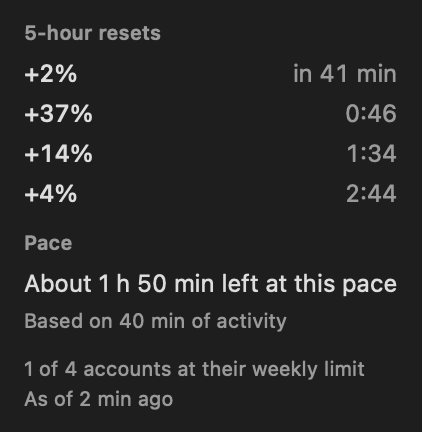
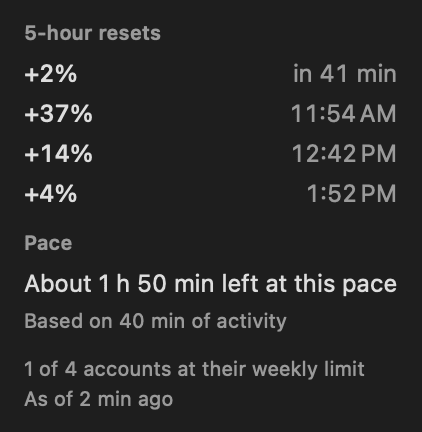
chore: polish readme shots after the time format fix (#27)
* fix: draw the recorder's menu bar clock from the frame's own time

The clock was fixed at 9:41 while the hover card's resets came from the
real time, so a frame could show 9:41 above a reset at 1:48 AM. The
clock now formats the same now, and TZ picks the hour of a recording.

* update the readme shots after the duration fix

Re-renders the pace card and GIF on #24's formatting, crops the menu
bar settings from the section header through the whole style picker,
and shows those two shots wider so their labels stay readable.

Changed region(s): [[0.6777, 0.331, 0.955, 0.3912], [0.6777, 0.2407, 0.955, 0.3009], [0.7393, 0.4213, 0.955, 0.4815]]

diff --git a/Sources/Ebb/Recorder.swift b/Sources/Ebb/Recorder.swift
@@ -269,6 +269,13 @@ private final class Desk {
     private var digit = CGRect.zero
     private var digits: [(sharp: CGImage, blurred: CGImage)] = []
 
+    /// The menu bar clock's format: "Tue Oct 27  9:12 AM".
+    private static func clockText(_ date: Date) -> String {
+        let day = DateFormatter()
+        day.dateFormat = DateFormatter.dateFormat(fromTemplate: "EEEMMMd", options: 0, locale: .current)?.replacingOccurrences(of: ",", with: "")
+        return day.string(from: date) + "  " + date.formatted(date: .omitted, time: .shortened)
+    }
+
     init(model: AppModel, scheme: ColorScheme) {
         isDark = scheme == .dark
         let claude = ClaudeProvider().proxyName
@@ -295,7 +302,8 @@ private final class Desk {
         }
         wallpaper = Self.wallpaper(isDark: isDark)
         blurredWallpaper = Self.blur(wallpaper, radius: 90, saturation: 1.4)
-        clock = (NSAttributedString(string: "Mon 26 Oct  9:41", attributes: [.font: NSFont.systemFont(ofSize: 13)]), .zero)
+        // From the same `now` as the resets in the hover card, so the frame agrees with itself; set TZ to pick the hour.
+        clock = (NSAttributedString(string: Self.clockText(now), attributes: [.font: NSFont.systemFont(ofSize: 13)]), .zero)
         layOutBar()
         measure()
         cardBackdrop = makeCardBackdrop()

diff --git a/README.md b/README.md
@@ -46,8 +46,8 @@
   </tr>
   <tr>
     <td>Settings</td>
-    <td><img src="docs/images/settings-menubar-light.png" width="300" alt="Settings, Menu Bar section: when to show Ebb, which pool, eight menu bar styles and the limit."></td>
-    <td><img src="docs/images/settings-menubar-dark.png" width="300" alt="The same settings in dark mode."></td>
+    <td><img src="docs/images/settings-menubar-light.png" width="380" alt="Settings, Menu Bar section: when to show Ebb, which pool, eight menu bar styles and the limit."></td>
+    <td><img src="docs/images/settings-menubar-dark.png" width="380" alt="The same settings in dark mode."></td>
   </tr>
   <tr>
     <td>Routing</td>
